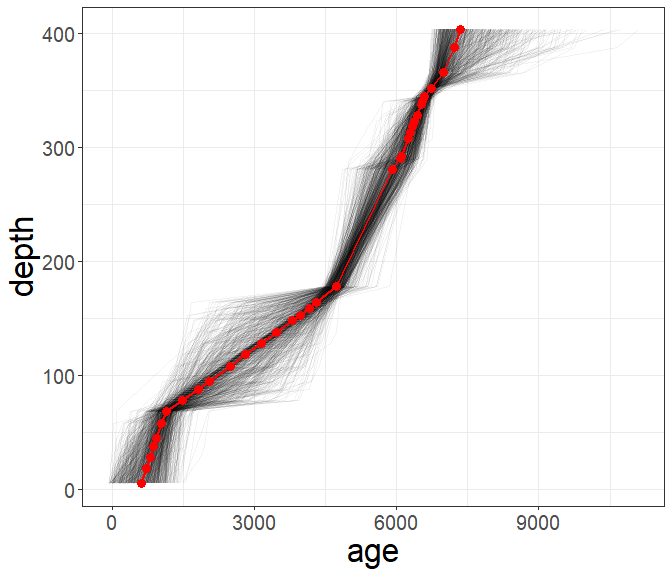
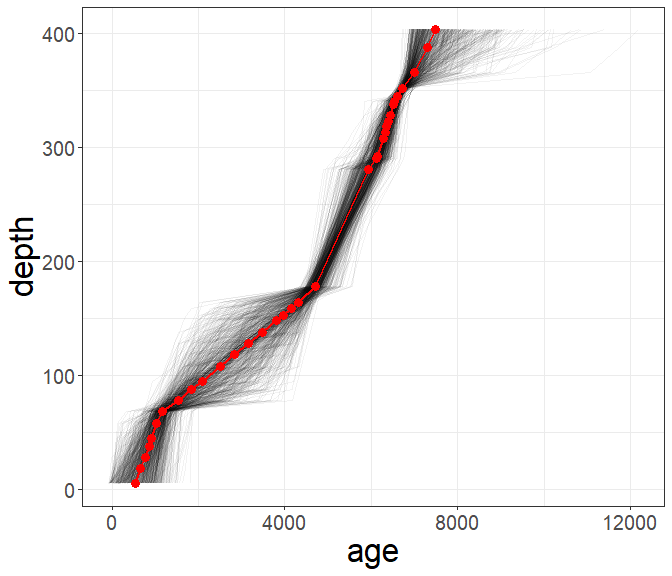
example: add scenario 4

diff --git a/docs/step_by_step_guide.html b/docs/step_by_step_guide.html
@@ -774,84 +774,84 @@ head(age_uncertainties, n = 8)[, 1:8]</code></pre>
 </thead>
 <tbody>
 <tr class="odd">
-<td align="center">52</td>
-<td align="center">137</td>
-<td align="center">202</td>
-<td align="center">266</td>
-<td align="center">328</td>
-<td align="center">452</td>
-<td align="center">547</td>
-<td align="center">1284</td>
+<td align="center">36</td>
+<td align="center">125</td>
+<td align="center">225</td>
+<td align="center">345</td>
+<td align="center">433</td>
+<td align="center">597</td>
+<td align="center">1209</td>
+<td align="center">1551</td>
 </tr>
 <tr class="even">
-<td align="center">783</td>
-<td align="center">846</td>
-<td align="center">895</td>
-<td align="center">943</td>
-<td align="center">977</td>
-<td align="center">1041</td>
-<td align="center">1089</td>
-<td align="center">1288</td>
+<td align="center">878</td>
+<td align="center">1036</td>
+<td align="center">1094</td>
+<td align="center">1152</td>
+<td align="center">1192</td>
+<td align="center">1268</td>
+<td align="center">1325</td>
+<td align="center">1613</td>
 </tr>
 <tr class="odd">
-<td align="center">656</td>
-<td align="center">798</td>
-<td align="center">908</td>
-<td align="center">1018</td>
-<td align="center">1095</td>
-<td align="center">1238</td>
-<td align="center">1348</td>
-<td align="center">1749</td>
+<td align="center">864</td>
+<td align="center">889</td>
+<td align="center">931</td>
+<td align="center">993</td>
+<td align="center">1035</td>
+<td align="center">1157</td>
+<td align="center">1307</td>
+<td align="center">1765</td>
 </tr>
 <tr class="even">
-<td align="center">334</td>
-<td align="center">406</td>
-<td align="center">649</td>
-<td align="center">880</td>
-<td align="center">987</td>
-<td align="center">1186</td>
-<td align="center">1339</td>
-<td align="center">1711</td>
+<td align="center">647</td>
+<td align="center">723</td>
+<td align="center">782</td>
+<td align="center">840</td>
+<td align="center">881</td>
+<td align="center">1110</td>
+<td align="center">1299</td>
+<td align="center">1821</td>
 </tr>
 <tr class="odd">
-<td align="center">1235</td>
-<td align="center">1262</td>
-<td align="center">1283</td>
-<td align="center">1304</td>
-<td align="center">1318</td>
-<td align="center">1345</td>
-<td align="center">1366</td>
-<td align="center">1751</td>
+<td align="center">96</td>
+<td align="center">574</td>
+<td align="center">731</td>
+<td align="center">810</td>
+<td align="center">828</td>
+<td align="center">1058</td>
+<td align="center">1249</td>
+<td align="center">1764</td>
 </tr>
 <tr class="even">
-<td align="center">588</td>
-<td align="center">640</td>
-<td align="center">681</td>
-<td align="center">814</td>
-<td align="center">935</td>
-<td align="center">1161</td>
-<td align="center">1335</td>
-<td align="center">2595</td>
+<td align="center">637</td>
+<td align="center">759</td>
+<td align="center">853</td>
+<td align="center">946</td>
+<td align="center">1012</td>
+<td align="center">1134</td>
+<td align="center">1261</td>
+<td align="center">1435</td>
 </tr>
 <tr class="odd">
-<td align="center">1138</td>
-<td align="center">1184</td>
-<td align="center">1220</td>
-<td align="center">1256</td>
-<td align="center">1281</td>
-<td align="center">1327</td>
-<td align="center">1363</td>
-<td align="center">2097</td>
+<td align="center">1290</td>
+<td align="center">1352</td>
+<td align="center">1377</td>
+<td align="center">1402</td>
+<td align="center">1420</td>
+<td align="center">1452</td>
+<td align="center">1477</td>
+<td align="center">1645</td>
 </tr>
 <tr class="even">
-<td align="center">819</td>
-<td align="center">845</td>
-<td align="center">875</td>
-<td align="center">921</td>
-<td align="center">952</td>
-<td align="center">1010</td>
-<td align="center">1074</td>
-<td align="center">1717</td>
+<td align="center">815</td>
+<td align="center">1292</td>
+<td align="center">1379</td>
+<td align="center">1404</td>
+<td align="center">1421</td>
+<td align="center">1453</td>
+<td align="center">1477</td>
+<td align="center">1522</td>
 </tr>
 </tbody>
 </table>
@@ -936,32 +936,32 @@ head(sel_level_predicted)</code></pre>
 <tr class="odd">
 <td align="center">538999</td>
 <td align="center">5</td>
-<td align="center">608.5</td>
+<td align="center">545.5</td>
 </tr>
 <tr class="even">
 <td align="center">539004</td>
 <td align="center">18</td>
-<td align="center">720</td>
+<td align="center">663.5</td>
 </tr>
 <tr class="odd">
 <td align="center">539000</td>
 <td align="center">28</td>
-<td align="center">799</td>
+<td align="center">763.5</td>
 </tr>
 <tr class="even">
 <td align="center">539001</td>
 <td align="center">38</td>
-<td align="center">871.5</td>
+<td align="center">855.5</td>
 </tr>
 <tr class="odd">
 <td align="center">539002</td>
 <td align="center">45</td>
-<td align="center">928</td>
+<td align="center">919.5</td>
 </tr>
 <tr class="even">
 <td align="center">539003</td>
 <td align="center">58</td>
-<td align="center">1040</td>
+<td align="center">1039</td>
 </tr>
 </tbody>
 </table>
@@ -1055,11 +1055,11 @@ pollen data before analyses. Specifically, we will add
     Working_Units = &quot;levels&quot;,
     smooth_method = &quot;shep&quot; # Shepard&#39;s 5-term filter
   )</code></pre>
-<p>We see that the patern change only slightly but the absolute value
-drop to half.</p>
 <pre class="r"><code>RRatepol::fc_plot_RoC_sequence(data_source = scenario_2)</code></pre>
 <p><img
 src="step_by_step_guide_files/figure-html/roc_sc2_vis-1.png" /><!-- --></p>
+<p>We see that the patern change only slightly but the absolute values
+changed.</p>
 </div>
 <div id="scenario---levels---subsampling" class="section level3">
 <h3>Scenario - levels - subsampling</h3>
@@ -1086,6 +1086,30 @@ uncertainty</p>
 <pre class="r"><code>RRatepol::fc_plot_RoC_sequence(data_source = scenario_3)</code></pre>
 <p><img
 src="step_by_step_guide_files/figure-html/roc_sc3_vis-1.png" /><!-- --></p>
+</div>
+<div id="scenario---levels---age-uncertainty" class="section level3">
+<h3>Scenario - levels - age uncertainty</h3>
+<p>Now we will add the age uncertainty. For each iteration, the package
+will randomly select one age-sequence from the uncertainty matrix.</p>
+<pre class="r"><code>scenario_4 &lt;-
+  RRatepol::fc_estimate_RoC(
+    data_source_community = sel_counts_selected,
+    data_source_age = sel_level_predicted,
+    DC = &quot;chisq&quot;,
+    Working_Units = &quot;levels&quot;,
+    time_standardisation = 500,
+    smooth_method = &quot;shep&quot;,
+    standardise = TRUE,
+    N_individuals = 150,
+    rand = set_randomisations,
+    age_uncertainty = age_uncertainties # add the uncertainty matrix
+  )</code></pre>
+<pre class="r"><code>RRatepol::fc_plot_RoC_sequence(data_source = scenario_4)</code></pre>
+<p><img
+src="step_by_step_guide_files/figure-html/roc_sc4_vis-1.png" /><!-- --></p>
+<p>The uncertainty around values increase drastically, this si because
+we are randomly sampling age and taxa with small number of
+randomisations.</p>
 </div>
 </div>
 

diff --git a/step_by_step_guide.md b/step_by_step_guide.md
@@ -360,21 +360,21 @@ head(age_uncertainties, n = 8)[, 1:8]
 -----------------------------------------------------------------------
  538999   539004   539000   539001   539002   539003   539006   539005 
 -------- -------- -------- -------- -------- -------- -------- --------
-   52      137      202      266      328      452      547      1284  
+   36      125      225      345      433      597      1209     1551  
 
-  783      846      895      943      977      1041     1089     1288  
+  878      1036     1094     1152     1192     1268     1325     1613  
 
-  656      798      908      1018     1095     1238     1348     1749  
+  864      889      931      993      1035     1157     1307     1765  
 
-  334      406      649      880      987      1186     1339     1711  
+  647      723      782      840      881      1110     1299     1821  
 
-  1235     1262     1283     1304     1318     1345     1366     1751  
+   96      574      731      810      828      1058     1249     1764  
 
-  588      640      681      814      935      1161     1335     2595  
+  637      759      853      946      1012     1134     1261     1435  
 
-  1138     1184     1220     1256     1281     1327     1363     2097  
+  1290     1352     1377     1402     1420     1452     1477     1645  
 
-  819      845      875      921      952      1010     1074     1717  
+  815      1292     1379     1404     1421     1453     1477     1522  
 -----------------------------------------------------------------------
 We can visualise those "possible ages"
 
@@ -463,17 +463,17 @@ head(sel_level_predicted)
 ---------------------------
  sample_id   depth    age  
 ----------- ------- -------
-  538999       5     608.5 
+  538999       5     545.5 
 
-  539004      18      720  
+  539004      18     663.5 
 
-  539000      28      799  
+  539000      28     763.5 
 
-  539001      38     871.5 
+  539001      38     855.5 
 
-  539002      45      928  
+  539002      45     919.5 
 
-  539003      58     1040  
+  539003      58     1039  
 ---------------------------
 
 We can visualise that by drawing a red line
@@ -581,14 +581,14 @@ scenario_2 <-
   )
 ```
 
-We see that the patern change only slightly but the absolute value drop to half. 
-
 
 ```r
 RRatepol::fc_plot_RoC_sequence(data_source = scenario_2)
 ```
 
 ![](step_by_step_guide_files/figure-html/roc_sc2_vis-1.png)<!-- -->
+
+We see that the patern change only slightly but the absolute values changed. 
 
 ### Scenario - levels - subsampling
 
@@ -624,6 +624,36 @@ RRatepol::fc_plot_RoC_sequence(data_source = scenario_3)
 ```
 
 ![](step_by_step_guide_files/figure-html/roc_sc3_vis-1.png)<!-- -->
+
+### Scenario - levels - age uncertainty
+
+Now we will add the age uncertainty. For each iteration, the package will randomly select one age-sequence from the uncertainty matrix.
+
+
+```r
+scenario_4 <-
+  RRatepol::fc_estimate_RoC(
+    data_source_community = sel_counts_selected,
+    data_source_age = sel_level_predicted,
+    DC = "chisq",
+    Working_Units = "levels",
+    time_standardisation = 500,
+    smooth_method = "shep",
+    standardise = TRUE,
+    N_individuals = 150,
+    rand = set_randomisations,
+    age_uncertainty = age_uncertainties # add the uncertainty matrix
+  )
+```
+
+
+```r
+RRatepol::fc_plot_RoC_sequence(data_source = scenario_4)
+```
+
+![](step_by_step_guide_files/figure-html/roc_sc4_vis-1.png)<!-- -->
+
+The uncertainty around values increase drastically, this si because we are randomly sampling age and taxa with small number of randomisations.
 
 
 
